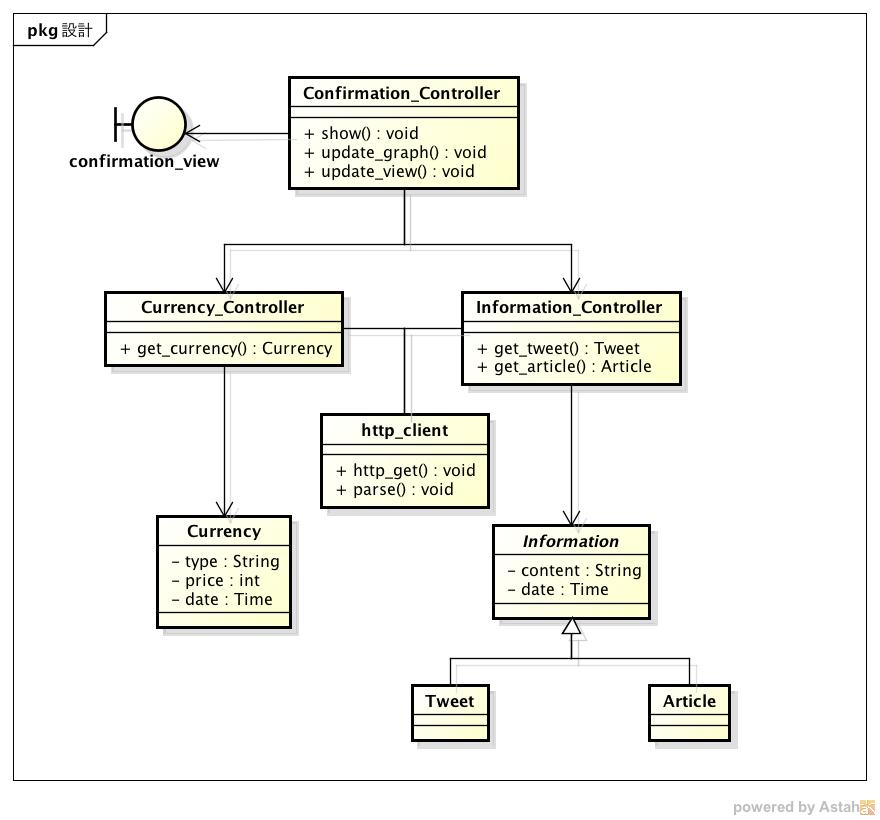
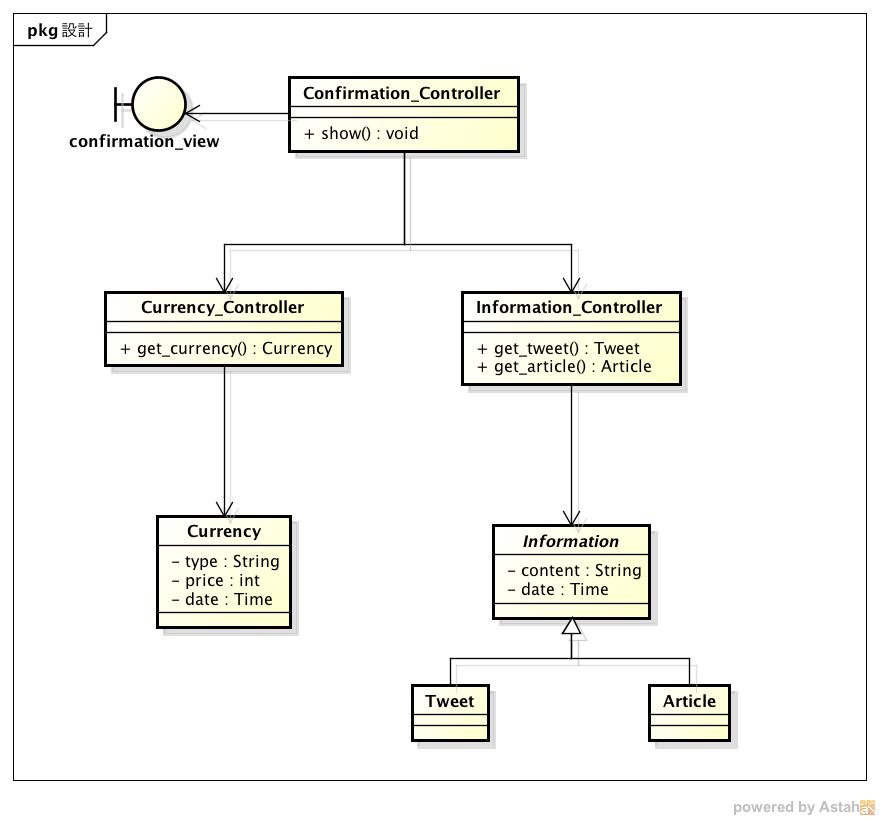
modify internal spec

Changed region(s): [[0.092, 0.0915, 0.6136, 0.2439], [0.3375, 0.4878, 0.583, 0.6402], [0.3989, 0.3963, 0.5216, 0.4268]]

diff --git a/regulus/sphinx/database.rst b/regulus/sphinx/database.rst
@@ -5,17 +5,17 @@ DBスキーマ定義
 
 -  Currencyテーブル
 
-+----------+-----------+--------------------------+----------+------------+
-| カラム   | 型        | 内容                     | 主キー   | NOT NULL   |
-+==========+===========+==========================+==========+============+
-| id       | INTEGER   | 通貨情報のID             | ◯        | ◯          |
-+----------+-----------+--------------------------+----------+------------+
-| type     | STRING    | 通貨の種類               |          | ◯          |
-+----------+-----------+--------------------------+----------+------------+
-| price    | INTEGER   | 通貨の価格               |          | ◯          |
-+----------+-----------+--------------------------+----------+------------+
-| date     | DATE      | 通貨情報を取得した日付   |          | ◯          |
-+----------+-----------+--------------------------+----------+------------+
++-----------------+-----------+--------------------------+----------+------------+
+| カラム          | 型        | 内容                     | 主キー   | NOT NULL   |
++=================+===========+==========================+==========+============+
+| id              | INTEGER   | 通貨情報のID             | ◯        | ◯          |
++-----------------+-----------+--------------------------+----------+------------+
+| currency_type   | STRING    | 通貨の種類               |          | ◯          |
++-----------------+-----------+--------------------------+----------+------------+
+| price           | INTEGER   | 通貨の価格               |          | ◯          |
++-----------------+-----------+--------------------------+----------+------------+
+| date            | DATE      | 通貨情報を取得した日付   |          | ◯          |
++-----------------+-----------+--------------------------+----------+------------+
 
 -  Tweetテーブル
 

diff --git a/regulus/sphinx/internal.rst b/regulus/sphinx/internal.rst
@@ -22,10 +22,8 @@
 
    1. アクセスを受けたConfirmation\_viewがConfirmation\_Controllerにアクセスの受信を通知する
    2. 受信したConfirmation\_Controllerが通貨取得を開始する
-   3. WebAPIを利用して外部から通貨情報を取得する
-   4. 取得した情報をパースする
-   5. Currencyオブジェクトを作成して返す
-   6. Currencyオブジェクトから必要な情報を取得してグラフを更新する
+   3. Currencyオブジェクトを取得して返す
+   4. ビューにグラフを表示する
 
 -  以降は3〜6を繰り返す
 
@@ -42,13 +40,9 @@
 
    1. アクセスを受けたConfirmation\_viewがConfirmation\_Controllerにアクセスの受信を通知する
    2. 受信したConfirmation\_Controllerが関連情報の取得を開始する
-   3. WebAPIを利用してTwitterからツイートを取得する
-   4. 取得したツイートをパースする
-   5. Tweetオブジェクトを作成して返す
-   6. WebAPIを利用して日経から記事を取得する
-   7. 取得した記事をパースする
-   8. Articleオブジェクトを作成して返す
-   9. ブラウザを更新する
+   3. Tweetオブジェクトを取得して返す
+   4. Articleオブジェクトを取得して返す
+   5. ビューに情報を表示する
 
 -  以降は3〜9を繰り返す
 
@@ -79,12 +73,12 @@
    -  Currency\_Controller
 
       -  Currencyのコントローラ
-      -  http\_clientを使って通貨情報の取得を行う
+      -  通貨情報の取得を行う
 
    -  Information\_Controller
 
       -  Tweet, Articleのコントローラ
-      -  http\_clientを使って関連情報の取得を行う
+      -  関連情報の取得を行う
 
 -  Model
 
@@ -105,9 +99,3 @@
    -  Article
 
       -  記事を表すクラス
-
--  lib
-
-   -  http\_client
-
-      -  WebAPIを利用する時に使用する
